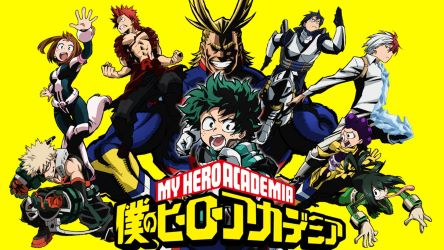
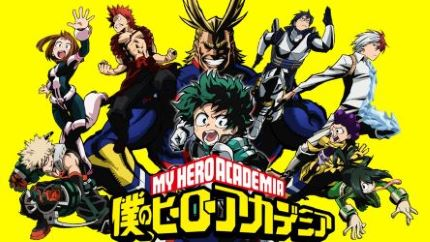
Segunda versão

diff --git a/Animes.html b/Animes.html
@@ -14,13 +14,13 @@
     </div>
     <div class="conteúdo" style="min-height: 2250px; max-height: 8000px;">
         <h1>Kimetsu no Yaiba (2019-presente)</h1>
-        <img src="Imagens/Animes/demonSlayer.jpeg" alt="Demon Slayer" style="margin-left: 250px;">
+        <img src="Imagens/Animes/demonSlayer.jpeg" alt="Demon Slayer">
         <p>Ambientada no Japão durante o Período Taishō (1912-1926), a história gira ao entorno de Tanjirō Kamado, um garoto bondoso e inteligente que vive junto com sua mãe e seus irmãos, ganhando dinheiro vendendo carvão, assim como seu falecido pai. Certo dia, ao voltar para casa após ter ido a uma cidade vender carvão, Tanjiro descobre que toda sua família foi atacada por demônios, sendo que uma de suas irmãs, Nezuko, é a única que sobreviveu ao ataque. Nezuko então passa a ser um demônio, mas ela surpreendentemente ainda demonstra sinais de emoções e pensamentos humanos. Tanjirō decide então se tornar um caçador de demônios, e com a ajuda de Nezuko, passa a sair em jornadas pelo Japão a fim de impedir que a mesma tragédia que afetou sua família aconteça com outras pessoas, enquanto que ele busca uma maneira de tornar Nezuko humana novamente.
         </p>
         <p>Link: <a href="https://animeshouse.net/anime/kimetsu-no-yaiba/" target="_blank">https://animeshouse.net/anime/kimetsu-no-yaiba/</a></p>
 
         <h1>Boku no Hero Academia (2016-presente)</h1>
-        <img src="Imagens/Animes/myHeroAcademy.jpeg" alt="My Hero Academy" style="margin-left: 220px;">
+        <img src="Imagens/Animes/myHeroAcademy.jpeg" alt="My Hero Academy">
         <p>
             Em um mundo onde 80% da população mundial possuem super poderes, o tímido estudante Midoriya Izuku teve a infelicidade de nascer sem poderes. Grande fã do sorridente All Might, o herói conhecido como o símbolo da paz, Izuku, sofre com a frustração de saber que jamais terá uma individualidade especial para que possa se tornar, assim como seu grande ídolo, em um defensor dos fracos e oprimidos.
 
@@ -30,7 +30,7 @@
         </p>
         <p>Link: <a href="https://animeshouse.net/anime/boku-no-hero-academia/" target="_blank">https://animeshouse.net/anime/boku-no-hero-academia/</a></p>
         <h1>Shigeki no Kyojin (2013-presente)</h1>
-        <img src="Imagens/Animes/Titas.jpeg" alt="Titãs" style="margin-left: 250px;">
+        <img src="Imagens/Animes/Titas.jpeg" alt="Titãs">
         <p>
             Há várias décadas atrás, a humanidade foi quase exterminada pelo súbito aparecimento de seres humanoides, conhecido como Titãs. Criaturas de tamanho enorme e de inteligência aparentemente baixa, que comiam humanos por prazer. No entanto, um pequeno grupo de seres humanos sobreviveu no interior de uma cidade protegida por paredes superiores a três vezes a altura dos maiores Titãs registados até à data. Durante 107 anos, a cidade fortificada foi testemunha de ataques dos Titãs sem sucesso, até que um dia, o jovem Eren Jaeger e sua irmã adotiva, Mikasa Ackerman, foram testemunhas da aparição de um Titã colossal, fazendo uma abertura em uma das paredes exteriores da cidade, o que permitiu a entrada de um grande grupo de Titãs menores. Ambos os filhos presenciam o horror de ver sua mãe sendo comida viva por um deles. Desde aquele dia, Eren jurou vingança contra cada um dos Titãs.
         </p>

diff --git a/AtividadesFisicas.html b/AtividadesFisicas.html
@@ -28,7 +28,7 @@
             Se sua casa for muito pequena, faça uma caminhada estacionária, ou seja, uma marcha sem sair do lugar. Eleva-se os joelhos alternadamente até a altura da cintura ou até onde for possível, mantendo sempre a postura ereta. Tente fazer de 20 a 30 minutos por dia. É um ótimo exercício para ajudar na circulação do sangue, melhorar a imunidade e evitar doenças.
         </li>
         <br>
-        <img src="Imagens/AtividadesFísicas/marchaEstacionaria.jpg" alt="Marcha Estacionária" style="margin-left: 270px;"> 
+        <img src="Imagens/AtividadesFísicas/marchaEstacionaria.jpg" alt="Marcha Estacionária"> 
         <li>
             <br>
             <strong><em>Bola de Meia:</em></strong>
@@ -47,21 +47,21 @@
             Com esse exercício você pode fortalecer suas articulações, pode queimar calorias e ainda melhorar sua tonificação muscular.
         </li>
         <br/>
-        <img src="Imagens/AtividadesFísicas/PularCorda.jpg" alt="pular corda" style="margin-left: 220px;">
+        <img src="Imagens/AtividadesFísicas/PularCorda.jpg" alt="pular corda">
         <li><br>
             <strong><em>Polichinelo:</em></strong>
 
             Em pé, com as pernas unidas e os braços estendidos ao lado do corpo, dê um salto para cima. Ao mesmo tempo, afaste os pés lateralmente e bata as mãos acima da cabeça. Volte para a posição inicial e depois agache, tocando as mãos no solo. Estenda as pernas e repita o exercício sem parar
         </li>
         <br>
-        <img src="Imagens/AtividadesFísicas/polichinelo.jpg" alt="Polichinelo" style="margin-left: 270px;">
+        <img src="Imagens/AtividadesFísicas/polichinelo.jpg" alt="Polichinelo">
         <li><br>
             <strong><em>Agachamento:</em></strong>
 
             O agachamento é muito bom para melhorar a postura, fortalecer os músculos das coxas, definir os glúteos e ajudar a ter uma barriga sarada. Com certeza é um dos exercícios mais completos que existem e é fácil de fazer. Para realizar o exercício, você precisa separar os pés na largura do quadril e colocar os braços para frente, flexione os joelhos e agache, faça três séries de 20 agachamentos com 30 segundos de intervalo entre uma série e outra.
         </li>
         <br>
-        <img src="Imagens/AtividadesFísicas/agachamento.jpg" alt="Agachamento" style="margin-left: 245px;">
+        <img src="Imagens/AtividadesFísicas/agachamento.jpg" alt="Agachamento">
     </ol>
     </div>
 </body>

diff --git a/Filmes_e_Series.html b/Filmes_e_Series.html
@@ -15,7 +15,7 @@
     <div class="conteúdo" style="min-height: 3500px; max-height: 8000px;">
         <p>Algumas séries e filmes para você assistir na quarentena.</p>
         <p style="color: red;">Anne With An “E”</p>
-        <img src="Imagens/Filmes_Series/Anne.jpeg" alt="Anne Frank" style="margin-left: 300px;">
+        <img src="Imagens/Filmes_Series/Anne.jpeg" alt="Anne Frank">
         <ul>
             <li>3 Temporadas</li>
             <li>Link</li> 
@@ -39,7 +39,7 @@
             </li>
         </ul>
         <p style="color: red;">Harry Potter</p>
-        <img src="Imagens/Filmes_Series/harryPotter.jpeg" alt="Harry Potter" style="margin-left: 170px;">
+        <img src="Imagens/Filmes_Series/harryPotter.jpeg" alt="Harry Potter">
         <ul>
             <li>8 Filmes</li>
             <li>Link</li>
@@ -70,7 +70,7 @@
                 Cada livro/filme narra um ano na vida de Harry.</li>
         </ul>
         <p style="color: red;">O mundo sombrio de Sabrina</p>
-        <img src="Imagens/Filmes_Series/Sabrina.jpeg" alt="O mundo sombrio de Sabrina" style="margin-left: 300px;">
+        <img src="Imagens/Filmes_Series/Sabrina.jpeg" alt="O mundo sombrio de Sabrina">
         <ul>
             <li>3 Temporadas</li>
             <li>Link</li>
@@ -89,7 +89,7 @@
             </li>
         </ul>
         <p style="color: red;">Stranger Things</p>
-        <img src="Imagens/Filmes_Series/strangerThings.jpeg" alt="Stranger Things" style="margin-left: 290px;">
+        <img src="Imagens/Filmes_Series/strangerThings.jpeg" alt="Stranger Things">
         <ul>
             <li>3 Temporadas</li>
             <li>Link</li>
@@ -111,7 +111,7 @@
             </li>
         </ul>
         <p style="color: red;">The Flash</p>
-        <img src="Imagens/Filmes_Series/Flash.jpeg" alt="The Flash" style="margin-left: 360px;">
+        <img src="Imagens/Filmes_Series/Flash.jpeg" alt="The Flash">
         <ul>
             <li>6 Temporadas</li>
             <li>Link</li>

diff --git a/Livros.html b/Livros.html
@@ -15,7 +15,7 @@
     <div class="conteúdo" style="min-height: 2200px; max-height: 7000px;">
         <p>Alguns livros para você ler na quarentena.</p>
         <h1>O código de da Vinci</h1>
-        <img src="Imagens/Livros/daVinci.jpg" alt="O código de da Vinci" style="margin-left: 330px;">
+        <img src="Imagens/Livros/daVinci.jpg" alt="O código de da Vinci">
         <h2><em>Sinopse:</em></h2>
         <p><strong>&quot;Perfeição num best-seller. Um suspense divertidamente erudito, que se delicia
             levando os leitores numa caçada ofegante e guiando-os através de situações
@@ -41,7 +41,7 @@
             autores mais brilhantes da atualidade.
         </p>
         <h1>O sol também é uma estrela</h1>
-        <img src="Imagens/Livros/Romance.jpg" alt="O sol também é uma estrela" style="margin-left: 330px;">
+        <img src="Imagens/Livros/Romance.jpg" alt="O sol também é uma estrela">
         <h2><em>Sinopse</em></h2>
         <p><strong>Natasha:</strong> Sou uma garota que acredita na ciência e nos fatos. Não acredito na sorte. Nem
             no destino. Muito menos em sonhos que nunca se tornarão realidade. Não sou o tipo de

diff --git a/estilo.css b/estilo.css
@@ -8,6 +8,9 @@ header{
 }
 img{
     box-shadow: 5px 5px 7px black;
+    display: block;
+    margin-left: auto;
+    margin-right: auto;
 }
 .cabeçalho{
     padding-top: 10px;
